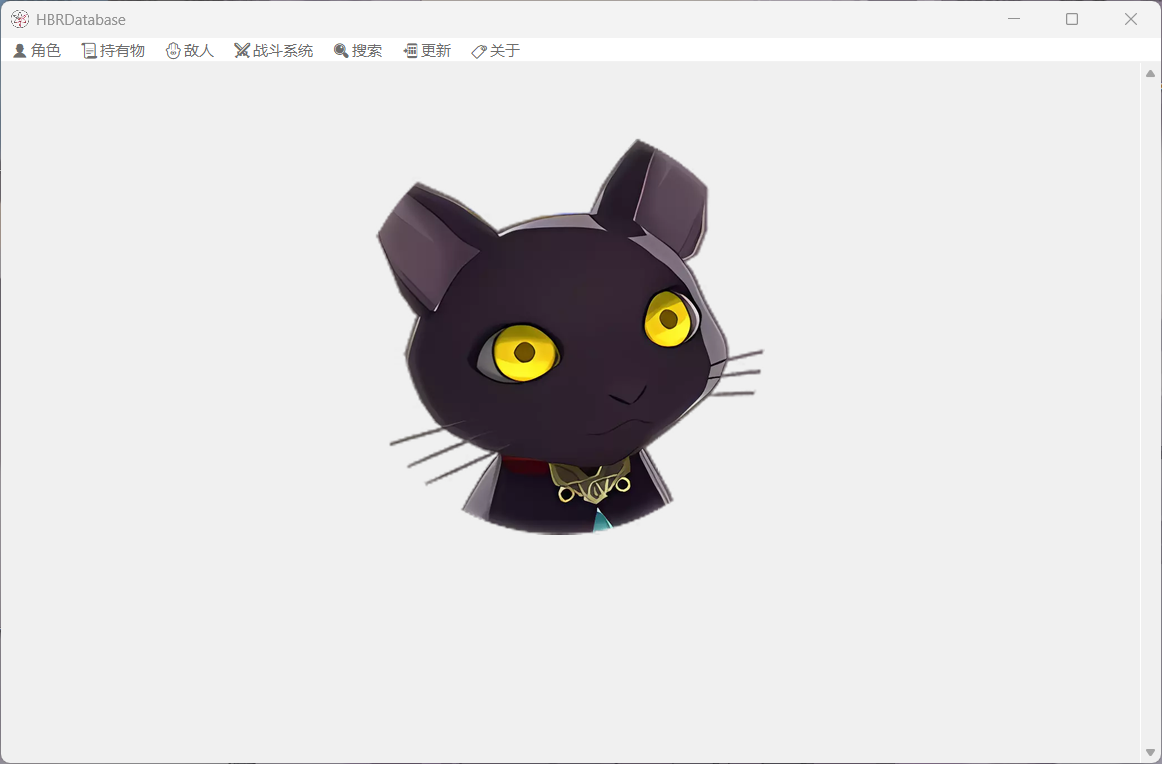
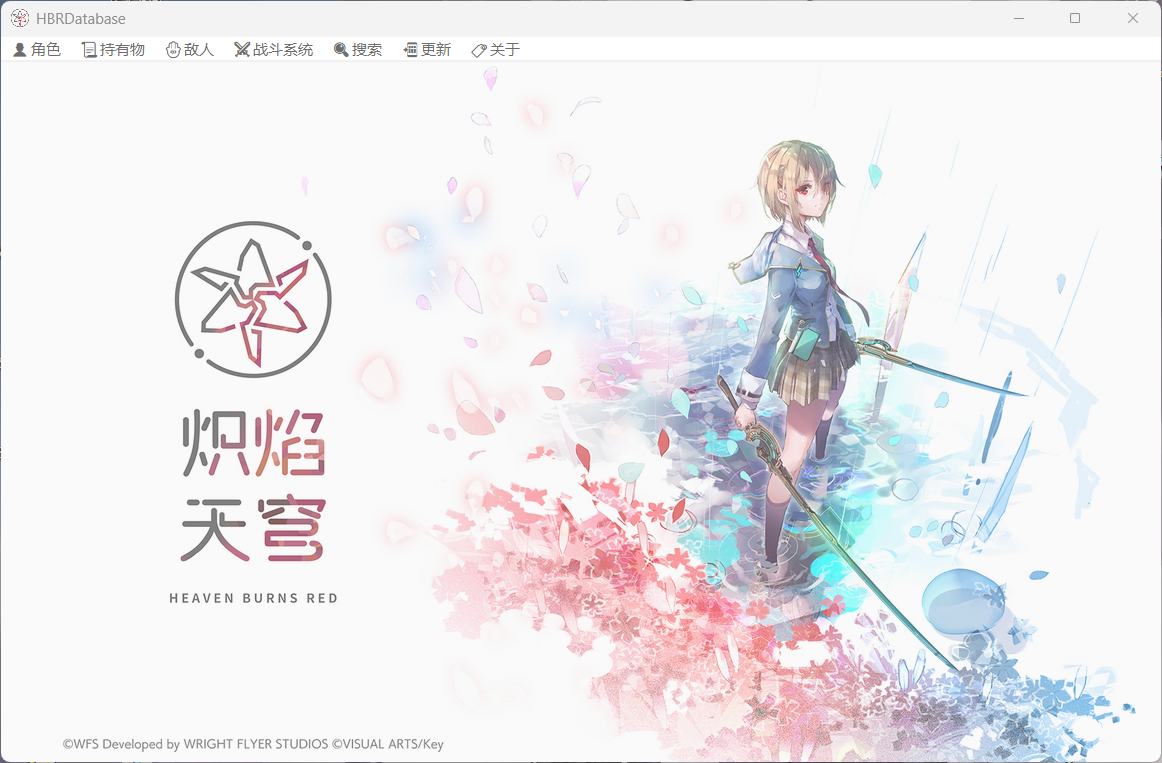
GUI

diff --git a/HBRDatabaseGUI.py b/HBRDatabaseGUI.py
@@ -5,7 +5,7 @@ from PIL import Image, ImageTk
 import json
 
 from canvas_events import ArtworkDisplayerHeight2
-from window import set_window_expand, set_window_icon, creat_window, set_window_top
+from window import set_window_expand, set_window_icon, creat_window, set_window_top, set_bg_opacity
 from scrollbar_frame_win import ScrollbarFrameWin
 from tools import load_json
 
@@ -155,10 +155,11 @@ def create_menu(parent_frame, scrollbar_frame_obj):
     parent_frame.config(menu=menu_bar)
 
 
+bg = []
 if __name__ == "__main__":
 
     # 创建主窗口
-    root = creat_window("HBRDatabase", 1160, 725, 440, 50)
+    root = creat_window("HBRDatabase", 1160, 725, 440, 50)#1160
     set_window_icon(root, "./favicon.ico")
     set_window_expand(root, rowspan=1, columnspan=6)
 
@@ -169,8 +170,11 @@ if __name__ == "__main__":
     # 创建菜单
     create_menu(root, scrollbar_frame_obj)
 
-    # 显示猫猫头
-    displayer = ArtworkDisplayerHeight2(scrollbar_frame_obj.scrollable_frame, 
-        "./角色/KamiSama.webp", 400)
+    # # 显示猫猫头
+    # displayer = ArtworkDisplayerHeight2(scrollbar_frame_obj.scrollable_frame, 
+    #     "./角色/KamiSama.webp", 400)
+
+    bg_photo = set_bg_opacity(root, 1253, 705, "vbg_hbr.png", "70%")
+    bg.append([bg_photo])
 
     root.mainloop()

diff --git a/window.py b/window.py
@@ -166,5 +166,24 @@ def edit_text(text_widget, data):
         text_widget.insert(tk.END, data)
 
 
+def set_bg_opacity(parent_frame, parent_width, parent_height, bg_path, opacity):
+    # 加载背景图片
+    bg_image = Image.open(bg_path)
+    bg_image = bg_image.resize((parent_width, parent_height), Image.LANCZOS)
 
+    # 将透明度百分比转换为灰度值（0-255）
+    opacity_percentage = int(opacity.strip('%')) / 100
+    gray_value = int(opacity_percentage * 255)
 
+    # 生成一个透明度遮罩层
+    mask = Image.new('L', bg_image.size, gray_value)  # 'L' 表示灰度图
+    bg_image.putalpha(mask)
+
+    # 将图片转换为Tkinter可用的格式
+    bg_photo = ImageTk.PhotoImage(bg_image)
+    
+    # 将图片设置为背景
+    bg_label = tk.Label(parent_frame, image=bg_photo)
+    bg_label.place(relwidth=1, relheight=1)
+
+    return bg_photo
